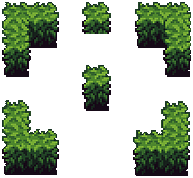
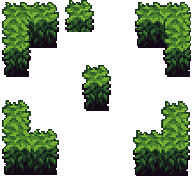
Hecke

Changed region(s): [[0.3109, 0.0, 0.5907, 0.1966]]

diff --git a/src/map.js b/src/map.js
@@ -1,5 +1,5 @@
 import Game from "./game.js"
-import { Background, FallingStone, Mushroom, Player, Stone, Tree, Wall, Cave, Sbackground, Hecke } from "./game_objects.js"
+import { Background, FallingStone, Mushroom, Player, Stone, Tree, Wall, Cave, Sbackground, Hedges } from "./game_objects.js"
 
 /**
  * Diese Klasse liest eine Kartendatei und erstellt die Spiel-Objekte
@@ -29,6 +29,7 @@ export default class Map {
     if ( tileType === "p" ) { new Mushroom(x, y) }
     if ( tileType === "w" ) { new Wall(x, y) }
     if ( tileType === "h" ) { new Cave(x, y) }
+    if ( tileType === "e" ) { new Hedges(x, y) }
     if ( tileType === "P" ) { Game.player = new Player(x, y)}
   }
 

diff --git a/src/game_objects.js b/src/game_objects.js
@@ -175,16 +175,17 @@ export class Mushroom extends GameObject {
     this.col = 2
   }
 }
-export class Hecke extends GameObject {
+export class Hedges extends GameObject {
   constructor(x, y) {
-    const ground = document.querySelector("#ground")
+    const ground = document.querySelector("#Hedges")
     super(x, y, {
       sheet: ground,
       layer: "world",
       collisionTags: ["forest"]
     })
+    this.tileSize = 32 
     this.row = 0
-    this.col = 4
+    this.col = 2
   }
 }
 

diff --git a/index.html b/index.html
@@ -21,7 +21,7 @@
         <img id="ground" src="res/Deco3.png"/>
         <img id="Steinboden" src="res/Steinboden.png"/>
         <img id="ground" src="res/Deco4.png"/>
-        <img id="ground" src="res/Hedges.png"/>
+        <img id="Hedges" src="res/Hedges.png"/>
     </div>
 </body>
 </html>
